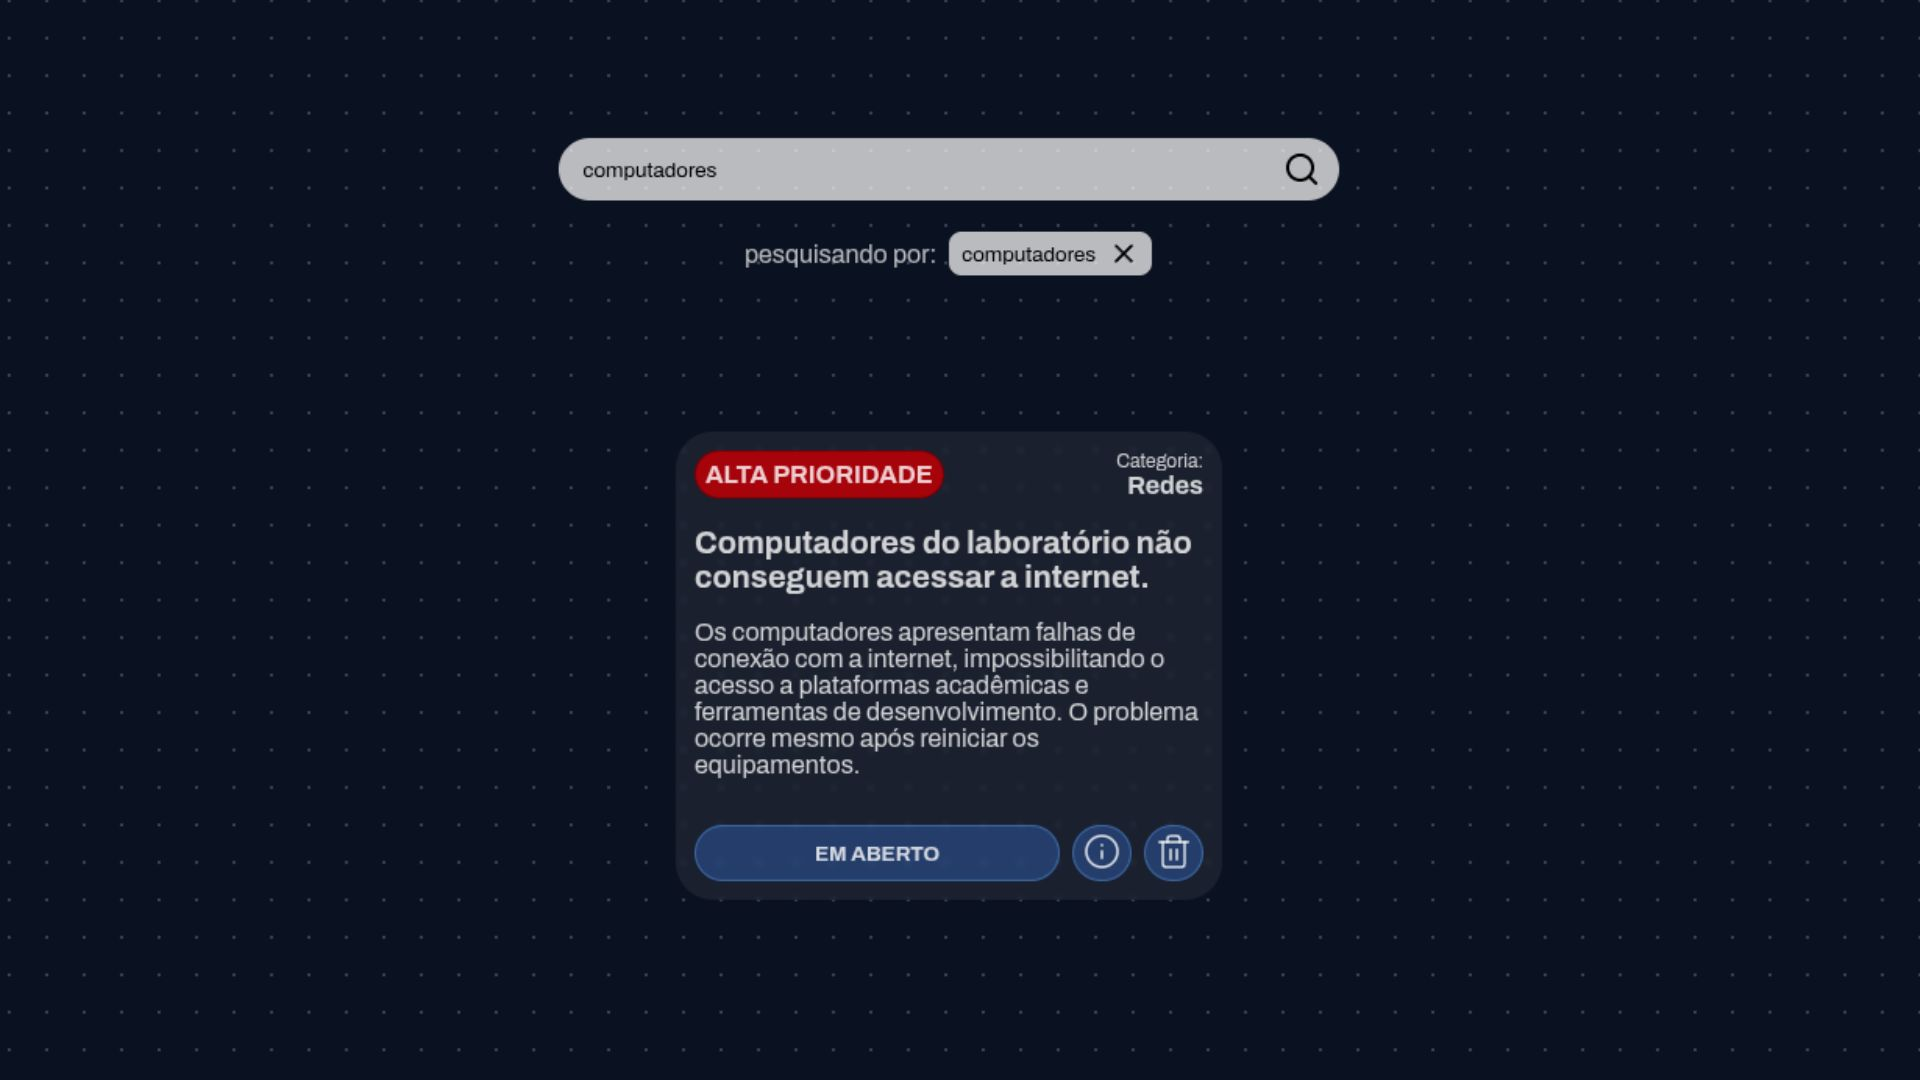
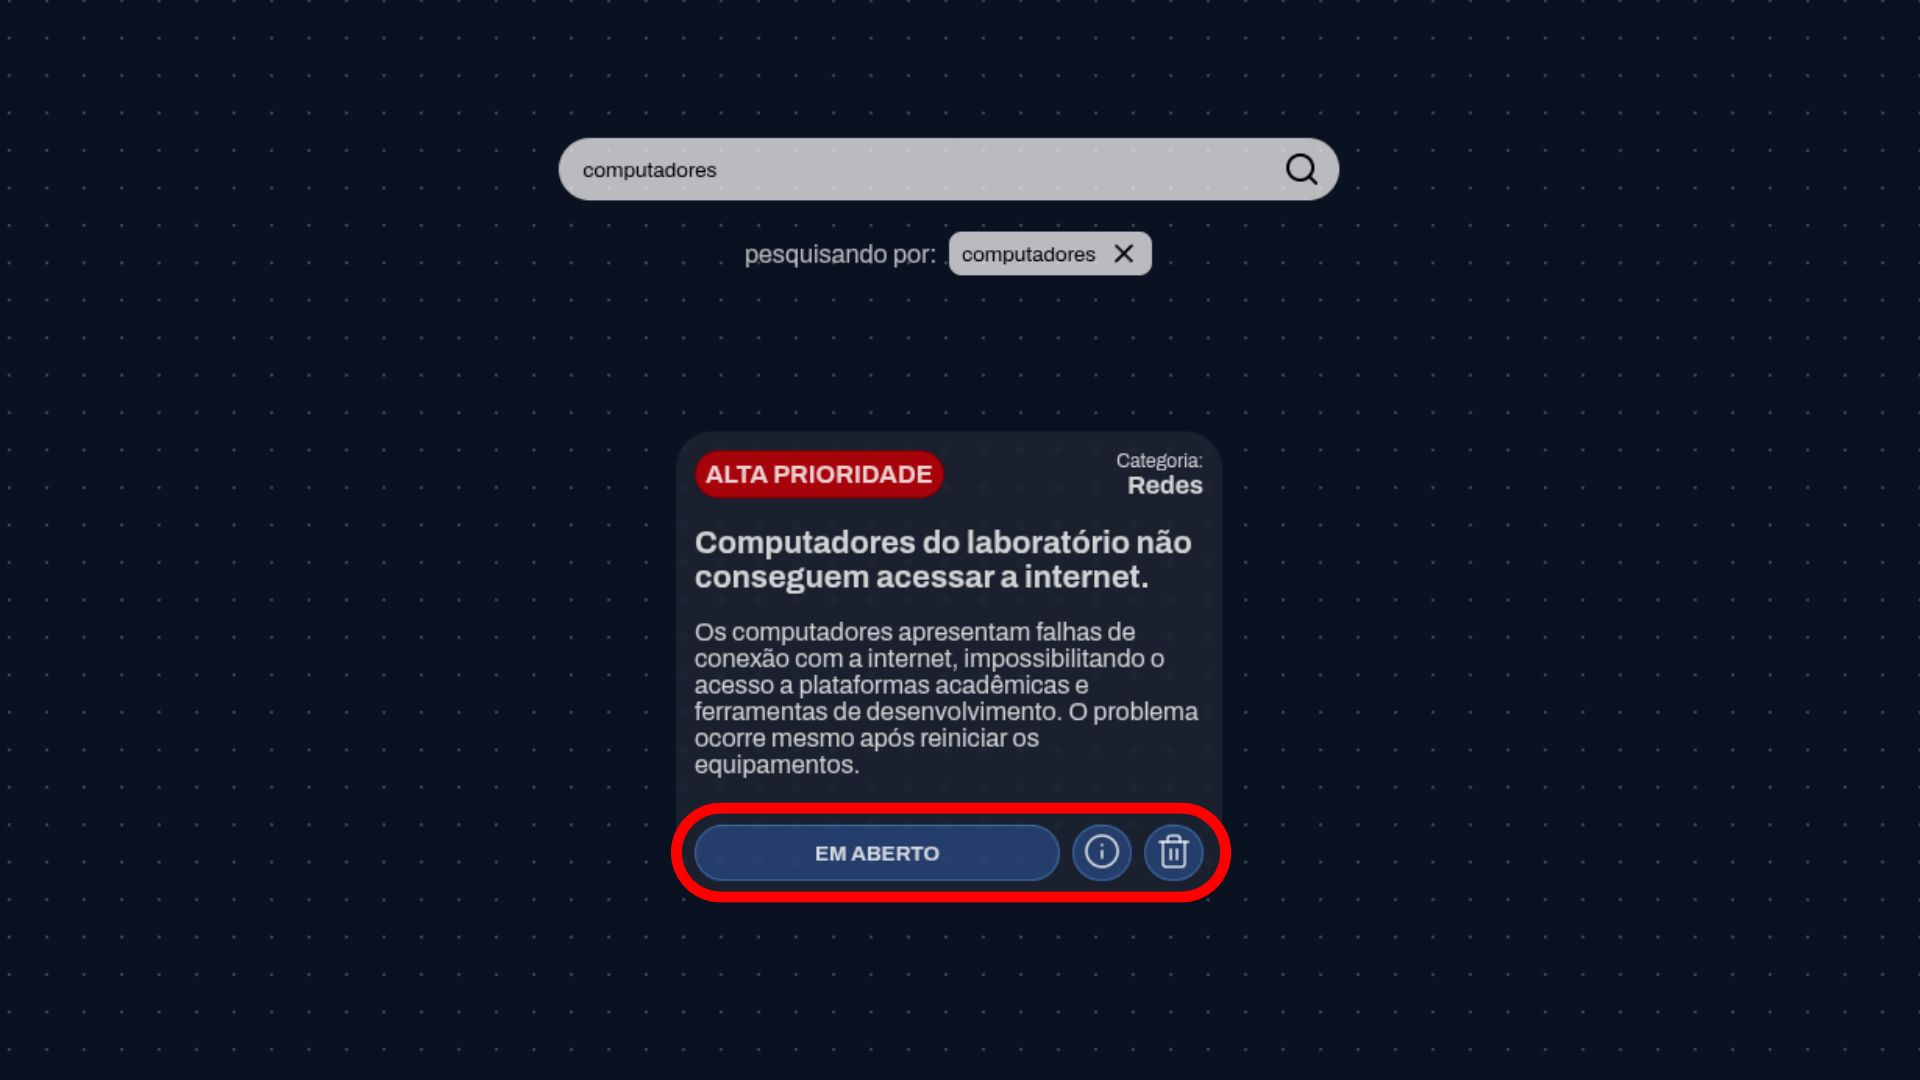
fix(docs): substitui imagem incorreta e adiciona enums na documentação do banco

Changed region(s): [[0.3438, 0.7333, 0.6562, 0.8556]]

diff --git a/README.md b/README.md
@@ -142,6 +142,17 @@ PostgreSQL 18, gerenciado pelo Prisma. O schema fica em `backend/prisma/schema.p
 
 A regra de transição de status é aplicada pela API (camada de serviço), e não por uma constraint do banco.
 
+### Enums
+
+| Enum            | Valor no banco | Exibido na interface |
+| --------------- | -------------- | -------------------- |
+| `Priority`      | `LOW`          | Baixa                |
+|                 | `MEDIUM`       | Média                |
+|                 | `HIGH`         | Alta                 |
+| `RequestStatus` | `OPEN`         | Em aberto            |
+|                 | `IN_PROGRESS`  | Em andamento         |
+|                 | `COMPLETED`    | Concluído            |
+
 ### Persistência
 
 Os dados ficam em um volume nomeado do Docker (`requestflow_postgres_data`), então sobrevivem a `docker compose down`. Só o `docker compose down -v` os apaga.
@@ -178,10 +189,10 @@ central-solicitacoes/
 
 ## Decisões e limitações
 
-- **PostgreSQL com Docker** em vez de SQLite, por aproximar o ambiente de um cenário real e facilitar a evolução do projeto. O custo é exigir Docker.
-- **Sem autenticação** não implementado (o icone de usuário no canto superior direito não faz nada).
-- **Sem testes automatizados.** A verificação foi manual, com requisições à API e uso da interface.
-- **Sem paginação** na listagem.
+- **PostgreSQL:** escolhido em vez de SQLite por oferecer um ambiente mais próximo de cenários reais de desenvolvimento e produção.
+- **Autenticação:** não implementada nesta versão.
+- **Testes automatizados:** não implementados. As verificações foram realizadas manualmente, por meio de requisições à API e utilização da interface.
+- **Paginação:** não implementada na listagem.
 
 ## Uso de inteligência artificial
 
